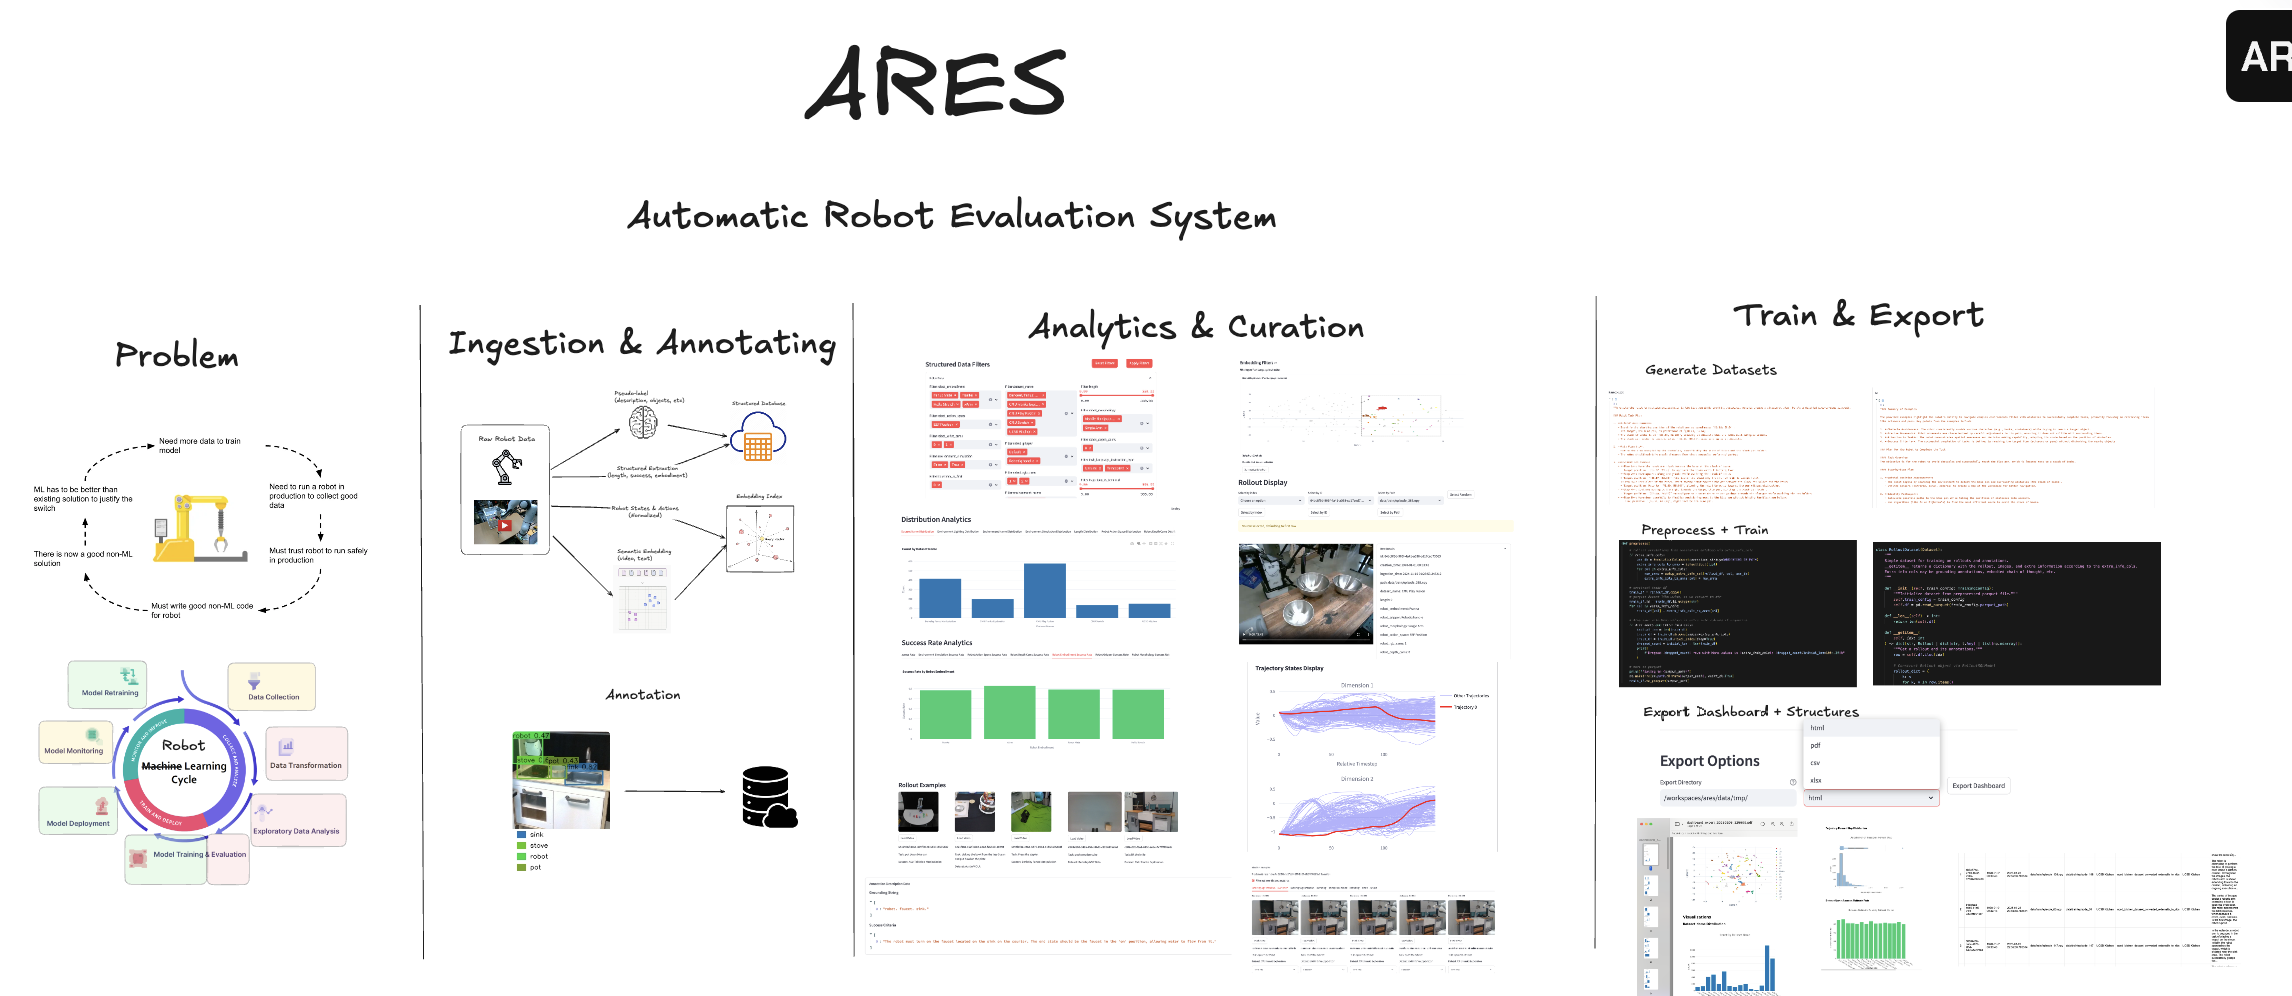
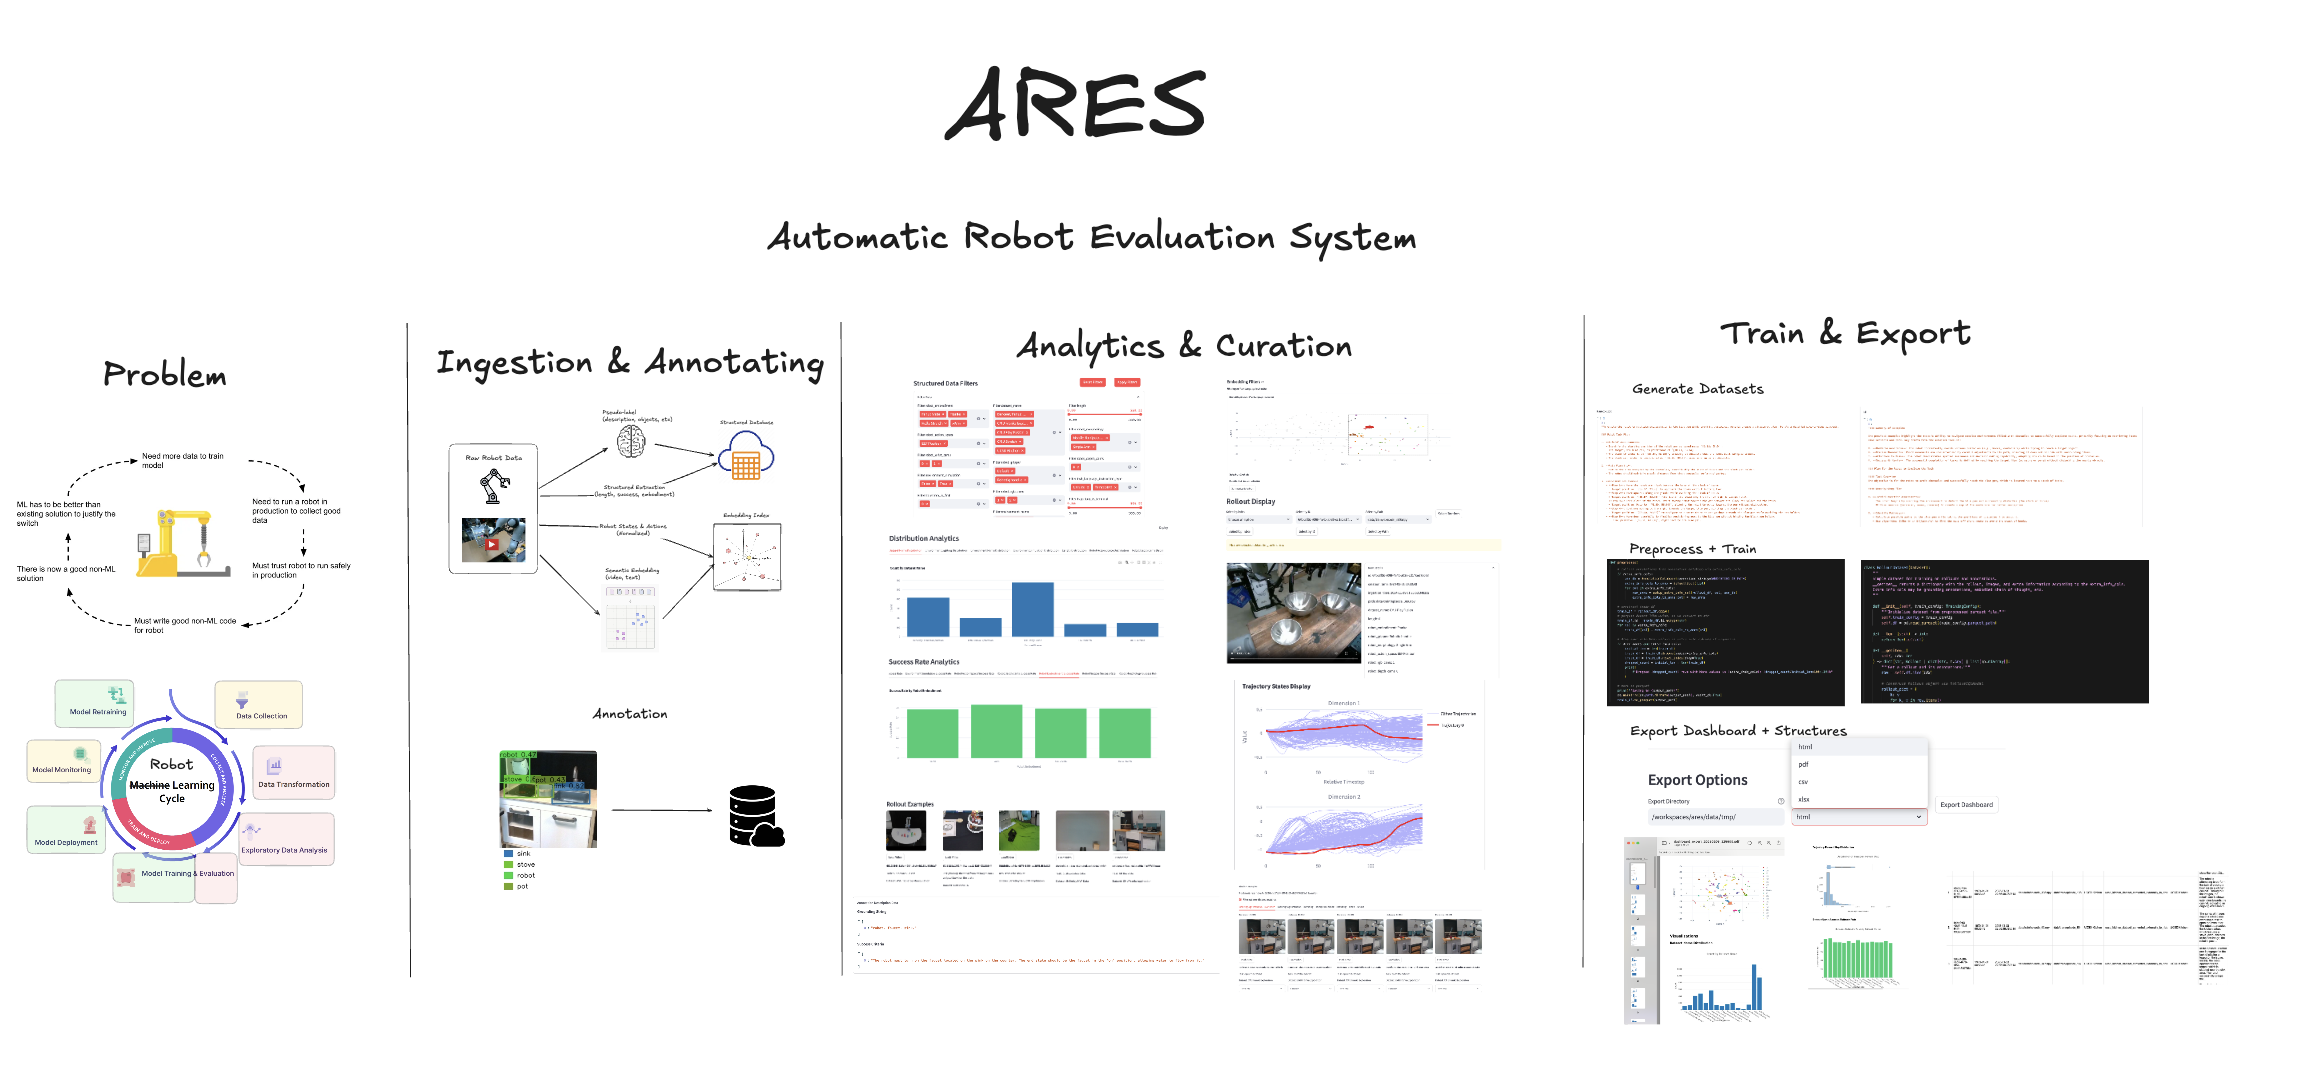
more readme

diff --git a/README.md b/README.md
@@ -1,6 +1,6 @@
 # ARES: Automatic Robot Evaluation System
 
-<img src="assets/ares.png" alt="ARES System Diagram" width="300"/> 
+<img src="assets/ares.png" alt="ARES System Diagram"/> 
 
 ARES is a open-source system for automatically evaluating robot data using machine learning to quickly and accurately understand performance, identify areas for improvement, and enable rapid prototyping of new robot behaviors. The goal of this system is to shorten iteration cycles by using machine learning to provide fast, accurate feedback on robot data. ARES is built to be simple and scalable, with a special focus on ease of use. All computation and model inference can be run through local resources or cloud APIs (model providers like OpenAI, Anthropic, Gemini, Modal, Replicate, etc.), requiring only a credit card for access - no complex cloud infrastructure or GPU setup needed. 
 
